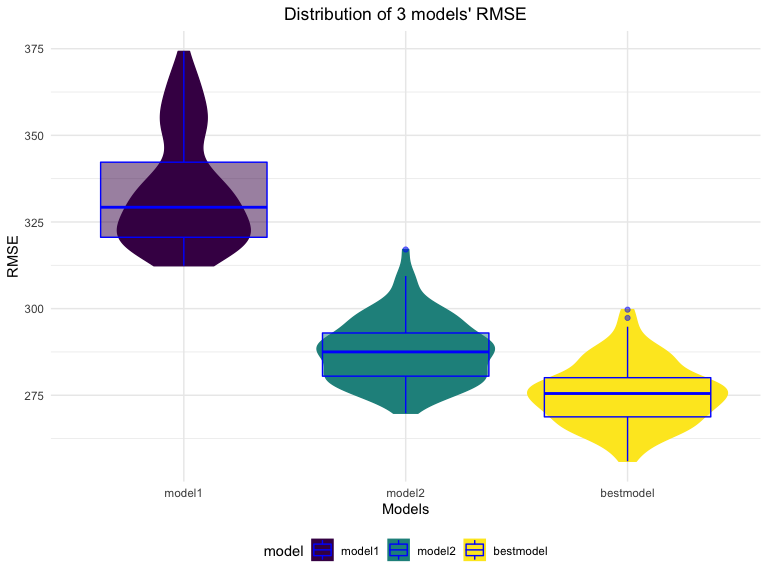
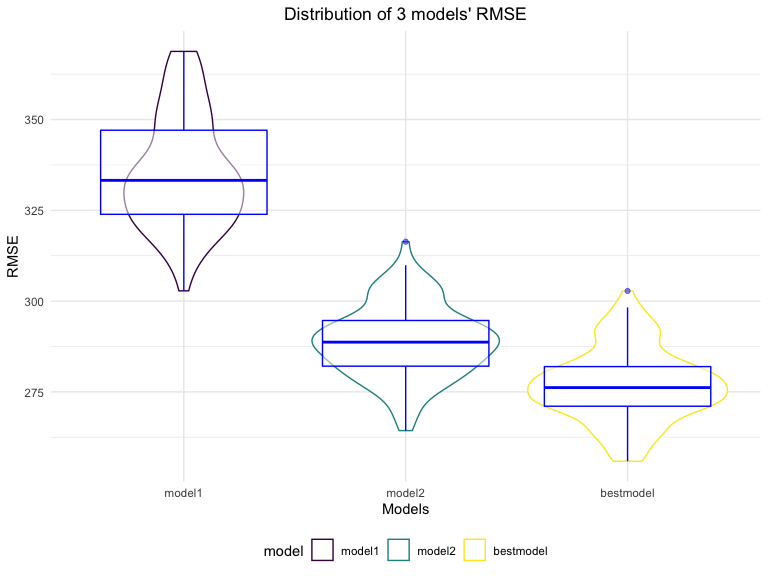
edit plot

diff --git a/p8105_hw6_yc4195.md b/p8105_hw6_yc4195.md
@@ -444,7 +444,7 @@ cv_df %>%
     values_to = "rmse",
     names_prefix = "rmse_") %>% 
   mutate(model = fct_inorder(model)) %>% 
-  ggplot(aes(x = model, y = rmse,color = model, fill = model)) + 
+  ggplot(aes(x = model, y = rmse,color = model)) + 
   geom_violin() +
   geom_boxplot(alpha = 0.5, color = "blue")+
   labs(
